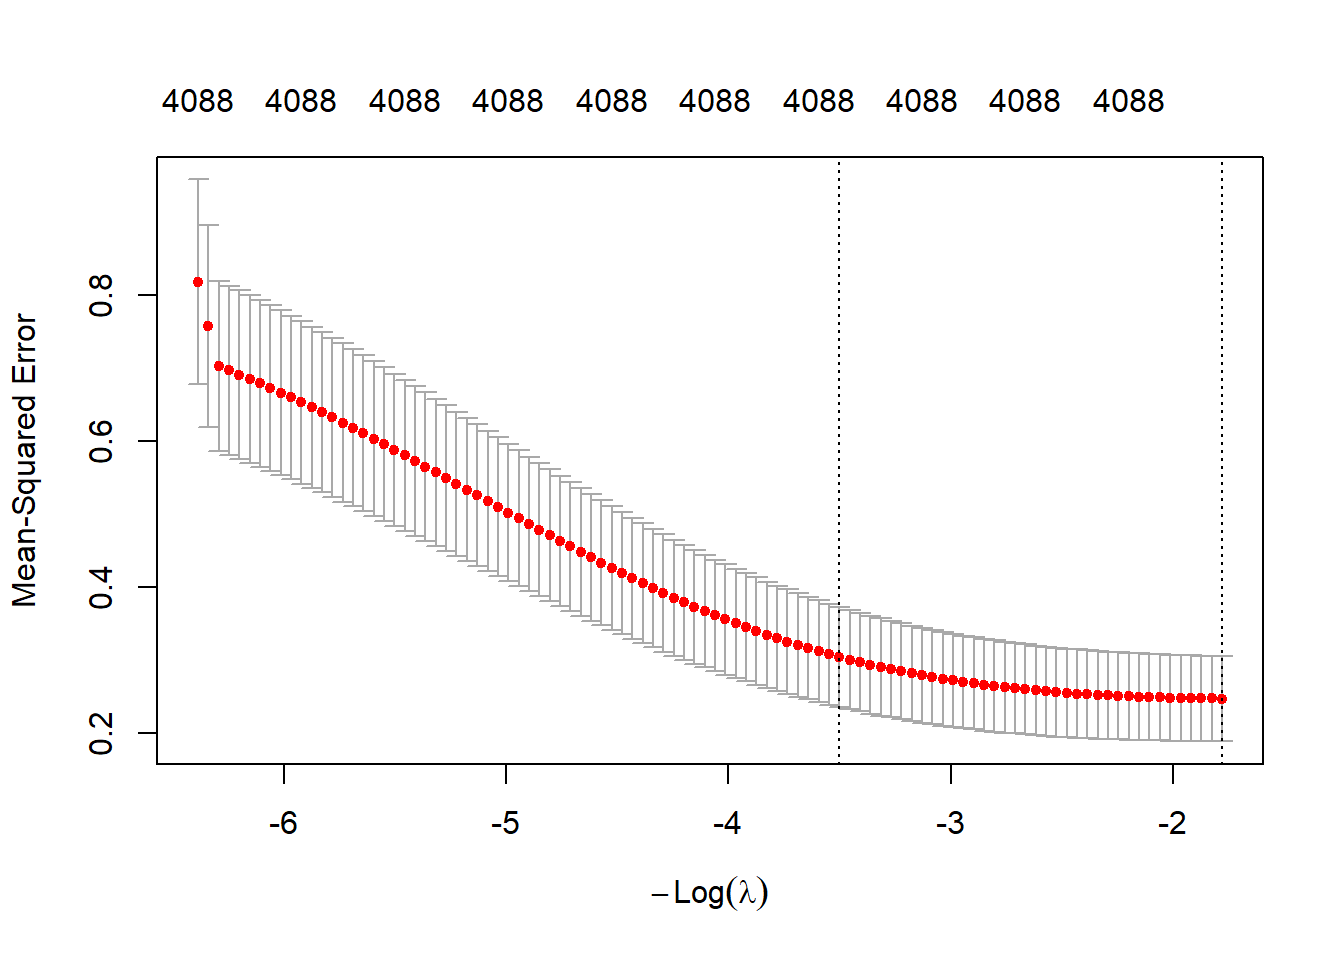
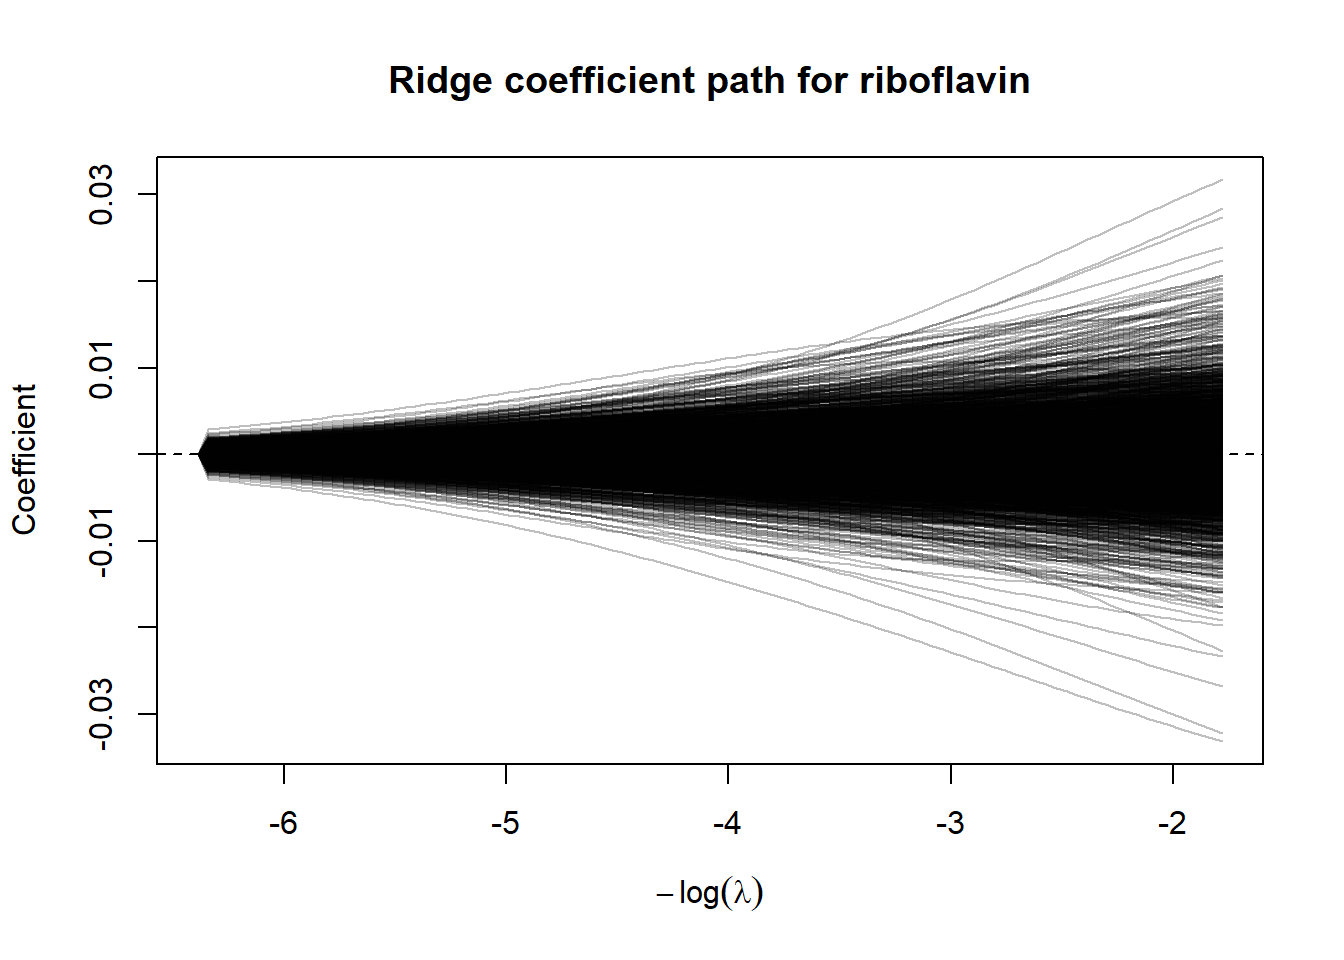
updated commit

diff --git a/_book/regularization.html b/_book/regularization.html
@@ -372,7 +372,7 @@ window.Quarto = {
 
 <section id="loading-the-data" class="level2" data-number="8.1">
 <h2 data-number="8.1" class="anchored" data-anchor-id="loading-the-data"><span class="header-section-number">8.1</span> Loading the Data:</h2>
-<p>Loading the riboflavin dataset with <span class="math inline">\(n=71\)</span> observations and <span class="math inline">\(p=4088\)</span> predictors. This is an example od a rank-deficient problem since <span class="math inline">\(p &gt; n\)</span>.</p>
+<p>Loading the riboflavin dataset with <span class="math inline">\(n=71\)</span> observations and <span class="math inline">\(p=4088\)</span> predictors. This is an example of a rank-deficient problem since <span class="math inline">\(p &gt; n\)</span>.</p>
 <p>71 samples of B. subtilis, each with 4,088 gene expression features. The outcome is riboflavin (vitamin B2) production rate. Because <span class="math inline">\(p &gt; n\)</span>, ordinary least squares fails — this is the setting where regularization is not optional.</p>
 <div class="cell">
 <div class="code-copy-outer-scaffold"><div class="sourceCode cell-code" id="cb1"><pre class="sourceCode r code-with-copy"><code class="sourceCode r"><span id="cb1-1"><a href="#cb1-1" aria-hidden="true" tabindex="-1"></a>riboflavin <span class="ot">&lt;-</span> <span class="fu">readRDS</span>(<span class="st">"riboflavin.rds"</span>)</span>
@@ -422,7 +422,7 @@ window.Quarto = {
 </div>
 </div>
 <div class="cell">
-<div class="code-copy-outer-scaffold"><div class="sourceCode cell-code" id="cb4"><pre class="sourceCode r code-with-copy"><code class="sourceCode r"><span id="cb4-1"><a href="#cb4-1" aria-hidden="true" tabindex="-1"></a><span class="fu">length</span>(<span class="fu">coef</span>(lm1)) <span class="co"># total coefficients R tried to estimate</span></span></code></pre></div><button title="Copy to Clipboard" class="code-copy-button"><i class="bi"></i></button></div>
+<div class="code-copy-outer-scaffold"><div class="sourceCode cell-code" id="cb4"><pre class="sourceCode r code-with-copy"><code class="sourceCode r"><span id="cb4-1"><a href="#cb4-1" aria-hidden="true" tabindex="-1"></a><span class="fu">length</span>(<span class="fu">coef</span>(lm1)) <span class="co"># total coefficients the model in R tried to estimate</span></span></code></pre></div><button title="Copy to Clipboard" class="code-copy-button"><i class="bi"></i></button></div>
 <div class="cell-output cell-output-stdout">
 <pre><code>[1] 4089</code></pre>
 </div>
@@ -434,7 +434,7 @@ window.Quarto = {
 <div class="cell-output cell-output-stdout">
 <pre><code>[1] 71</code></pre>
 </div>
-<div class="code-copy-outer-scaffold"><div class="sourceCode cell-code" id="cb10"><pre class="sourceCode r code-with-copy"><code class="sourceCode r"><span id="cb10-1"><a href="#cb10-1" aria-hidden="true" tabindex="-1"></a>lm1<span class="sc">$</span>rank <span class="co"># rank of the design matrix R used</span></span></code></pre></div><button title="Copy to Clipboard" class="code-copy-button"><i class="bi"></i></button></div>
+<div class="code-copy-outer-scaffold"><div class="sourceCode cell-code" id="cb10"><pre class="sourceCode r code-with-copy"><code class="sourceCode r"><span id="cb10-1"><a href="#cb10-1" aria-hidden="true" tabindex="-1"></a>lm1<span class="sc">$</span>rank <span class="co"># rank of the design matrix the model in R used</span></span></code></pre></div><button title="Copy to Clipboard" class="code-copy-button"><i class="bi"></i></button></div>
 <div class="cell-output cell-output-stdout">
 <pre><code>[1] 71</code></pre>
 </div>
@@ -455,7 +455,7 @@ window.Quarto = {
 <h2 data-number="8.3" class="anchored" data-anchor-id="problem-2"><span class="header-section-number">8.3</span> Problem 2:</h2>
 <p>Fit ridge regression using <code>glmnet</code> (<code>alpha = 0</code>). Select <span class="math inline">\(\lambda\)</span> via 10-fold cross-validation. Report <span class="math inline">\(\lambda_{\min}\)</span> and <span class="math inline">\(\lambda_{1se}\)</span>. Plot the CV error curve with the two vertical lines. How does CV-MSE change as <span class="math inline">\(\lambda\)</span> increases?</p>
 <div class="cell">
-<div class="code-copy-outer-scaffold"><div class="sourceCode cell-code" id="cb16"><pre class="sourceCode r code-with-copy"><code class="sourceCode r"><span id="cb16-1"><a href="#cb16-1" aria-hidden="true" tabindex="-1"></a><span class="fu">library</span>(glmnet)</span></code></pre></div><button title="Copy to Clipboard" class="code-copy-button"><i class="bi"></i></button></div>
+<div class="code-copy-outer-scaffold"><div class="sourceCode cell-code" id="cb16"><pre class="sourceCode r code-with-copy"><code class="sourceCode r"><span id="cb16-1"><a href="#cb16-1" aria-hidden="true" tabindex="-1"></a><span class="fu">library</span>(glmnet) <span class="co"># import rhe library for ridge and lasso regression</span></span></code></pre></div><button title="Copy to Clipboard" class="code-copy-button"><i class="bi"></i></button></div>
 <div class="cell-output cell-output-stderr">
 <pre><code>Warning: package 'glmnet' was built under R version 4.6.2</code></pre>
 </div>
@@ -465,22 +465,52 @@ window.Quarto = {
 <div class="cell-output cell-output-stderr">
 <pre><code>Loaded glmnet 5.2</code></pre>
 </div>
-<div class="code-copy-outer-scaffold"><div class="sourceCode cell-code" id="cb20"><pre class="sourceCode r code-with-copy"><code class="sourceCode r"><span id="cb20-1"><a href="#cb20-1" aria-hidden="true" tabindex="-1"></a><span class="fu">set.seed</span>(<span class="dv">42</span>)</span>
-<span id="cb20-2"><a href="#cb20-2" aria-hidden="true" tabindex="-1"></a>cv_ridge <span class="ot">&lt;-</span> <span class="fu">cv.glmnet</span>(X, y, <span class="at">alpha =</span> <span class="dv">0</span>, <span class="at">nfolds =</span> <span class="dv">10</span>)</span>
-<span id="cb20-3"><a href="#cb20-3" aria-hidden="true" tabindex="-1"></a></span>
-<span id="cb20-4"><a href="#cb20-4" aria-hidden="true" tabindex="-1"></a><span class="fu">c</span>(<span class="at">lambda.min =</span> <span class="fu">round</span>(cv_ridge<span class="sc">$</span>lambda.min, <span class="dv">4</span>),</span>
-<span id="cb20-5"><a href="#cb20-5" aria-hidden="true" tabindex="-1"></a>  <span class="at">lambda.1se =</span> <span class="fu">round</span>(cv_ridge<span class="sc">$</span>lambda<span class="fl">.1</span>se, <span class="dv">4</span>))</span></code></pre></div><button title="Copy to Clipboard" class="code-copy-button"><i class="bi"></i></button></div>
+<div class="code-copy-outer-scaffold"><div class="sourceCode cell-code" id="cb20"><pre class="sourceCode r code-with-copy"><code class="sourceCode r"><span id="cb20-1"><a href="#cb20-1" aria-hidden="true" tabindex="-1"></a><span class="co"># set a seed</span></span>
+<span id="cb20-2"><a href="#cb20-2" aria-hidden="true" tabindex="-1"></a><span class="fu">set.seed</span>(<span class="dv">42</span>) </span>
+<span id="cb20-3"><a href="#cb20-3" aria-hidden="true" tabindex="-1"></a><span class="co"># fit ridge regression using 10-fold cross validation implimentation</span></span>
+<span id="cb20-4"><a href="#cb20-4" aria-hidden="true" tabindex="-1"></a>cv_ridge <span class="ot">&lt;-</span> <span class="fu">cv.glmnet</span>(X, y, <span class="at">alpha =</span> <span class="dv">0</span>, <span class="at">nfolds =</span> <span class="dv">10</span>) </span>
+<span id="cb20-5"><a href="#cb20-5" aria-hidden="true" tabindex="-1"></a></span>
+<span id="cb20-6"><a href="#cb20-6" aria-hidden="true" tabindex="-1"></a><span class="co"># plot the CV error curve</span></span>
+<span id="cb20-7"><a href="#cb20-7" aria-hidden="true" tabindex="-1"></a><span class="fu">plot</span>(cv_ridge) </span>
+<span id="cb20-8"><a href="#cb20-8" aria-hidden="true" tabindex="-1"></a><span class="co"># title of plot</span></span>
+<span id="cb20-9"><a href="#cb20-9" aria-hidden="true" tabindex="-1"></a><span class="fu">title</span>(<span class="at">main =</span> <span class="fu">paste</span>(<span class="st">"CV error curve for Rudge Regression"</span>), <span class="at">font.main =</span> <span class="dv">1</span>) </span></code></pre></div><button title="Copy to Clipboard" class="code-copy-button"><i class="bi"></i></button></div>
+<div class="cell-output-display">
+<div>
+<figure class="figure">
+<p><img src="regularization_files/figure-html/unnamed-chunk-4-1.png" class="img-fluid figure-img" width="672"></p>
+</figure>
+</div>
+</div>
+<div class="code-copy-outer-scaffold"><div class="sourceCode cell-code" id="cb21"><pre class="sourceCode r code-with-copy"><code class="sourceCode r"><span id="cb21-1"><a href="#cb21-1" aria-hidden="true" tabindex="-1"></a><span class="fu">c</span>(<span class="at">lambda.min =</span> <span class="fu">round</span>(cv_ridge<span class="sc">$</span>lambda.min, <span class="dv">4</span>), <span class="co"># the penalty term λ with the lowest average CV error </span></span>
+<span id="cb21-2"><a href="#cb21-2" aria-hidden="true" tabindex="-1"></a>  <span class="at">lambda.1se =</span> <span class="fu">round</span>(cv_ridge<span class="sc">$</span>lambda<span class="fl">.1</span>se, <span class="dv">4</span>)) <span class="co"># the penalty term λ with the highest average CV error whose error is still within one standard error of that minimum</span></span></code></pre></div><button title="Copy to Clipboard" class="code-copy-button"><i class="bi"></i></button></div>
 <div class="cell-output cell-output-stdout">
 <pre><code>lambda.min lambda.1se 
     5.9342    33.1768 </code></pre>
 </div>
 </div>
+<p>Interpretation/Observation:</p>
+<p>As the penalty term λ increases, the CV-MSE change decreases as the curve begins to flatten out for larger λ. Using the 10-fold cross validation yieled a lowest average CV error penalty term λ.min of 5.9342 and a heighest average CV error penalty term λ.1se of 33.1768.</p>
 </section>
 <section id="problem-3" class="level2" data-number="8.4">
 <h2 data-number="8.4" class="anchored" data-anchor-id="problem-3"><span class="header-section-number">8.4</span> Problem 3:</h2>
 <p>Plot the ridge coefficient path <span class="math inline">\(-\log(\lambda)\)</span> (a previous version omitted the negative sign) on the x-axis, coefficient values on the y-axis. Describe qualitatively what happens to the coefficients as <span class="math inline">\(\lambda\)</span> increases. Does any coefficient reach exactly zero?</p>
+<p>Method #1:</p>
 <div class="cell">
-<div class="code-copy-outer-scaffold"><div class="sourceCode cell-code" id="cb22"><pre class="sourceCode r code-with-copy"><code class="sourceCode r"><span id="cb22-1"><a href="#cb22-1" aria-hidden="true" tabindex="-1"></a><span class="fu">plot</span>(cv_ridge)</span></code></pre></div><button title="Copy to Clipboard" class="code-copy-button"><i class="bi"></i></button></div>
+<div class="code-copy-outer-scaffold"><div class="sourceCode cell-code" id="cb23"><pre class="sourceCode r code-with-copy"><code class="sourceCode r"><span id="cb23-1"><a href="#cb23-1" aria-hidden="true" tabindex="-1"></a><span class="fu">library</span>(glmnet)</span>
+<span id="cb23-2"><a href="#cb23-2" aria-hidden="true" tabindex="-1"></a></span>
+<span id="cb23-3"><a href="#cb23-3" aria-hidden="true" tabindex="-1"></a>ridge_fit <span class="ot">&lt;-</span> <span class="fu">glmnet</span>(X, y, <span class="at">alpha =</span> <span class="dv">0</span>) <span class="co"># fit ridge regression</span></span>
+<span id="cb23-4"><a href="#cb23-4" aria-hidden="true" tabindex="-1"></a></span>
+<span id="cb23-5"><a href="#cb23-5" aria-hidden="true" tabindex="-1"></a><span class="co"># returns the coefficients for every λ. Converts it into matrix table. Drops inctercept roq, so jus tleft with coefficients/weigths. one row per gene, one column per λ</span></span>
+<span id="cb23-6"><a href="#cb23-6" aria-hidden="true" tabindex="-1"></a>beta_path <span class="ot">&lt;-</span> <span class="fu">as.matrix</span>(<span class="fu">coef</span>(ridge_fit))[<span class="sc">-</span><span class="dv">1</span>, ] </span>
+<span id="cb23-7"><a href="#cb23-7" aria-hidden="true" tabindex="-1"></a><span class="co"># puts λ values on a log scale, and the minus sign flips it to −log(λ)</span></span>
+<span id="cb23-8"><a href="#cb23-8" aria-hidden="true" tabindex="-1"></a>neg_log_lambda <span class="ot">&lt;-</span> <span class="sc">-</span><span class="fu">log</span>(ridge_fit<span class="sc">$</span>lambda)</span>
+<span id="cb23-9"><a href="#cb23-9" aria-hidden="true" tabindex="-1"></a></span>
+<span id="cb23-10"><a href="#cb23-10" aria-hidden="true" tabindex="-1"></a><span class="co"># plot the ridge coefficient path</span></span>
+<span id="cb23-11"><a href="#cb23-11" aria-hidden="true" tabindex="-1"></a><span class="fu">matplot</span>(neg_log_lambda, <span class="fu">t</span>(beta_path), <span class="at">type =</span> <span class="st">"l"</span>, <span class="at">lty =</span> <span class="dv">1</span>,</span>
+<span id="cb23-12"><a href="#cb23-12" aria-hidden="true" tabindex="-1"></a>        <span class="at">col =</span> <span class="st">"#00000040"</span>,</span>
+<span id="cb23-13"><a href="#cb23-13" aria-hidden="true" tabindex="-1"></a>        <span class="at">xlab =</span> <span class="fu">expression</span>(<span class="sc">-</span><span class="fu">log</span>(lambda)), <span class="at">ylab =</span> <span class="st">"Coefficient"</span>,</span>
+<span id="cb23-14"><a href="#cb23-14" aria-hidden="true" tabindex="-1"></a>        <span class="at">main =</span> <span class="st">"Ridge coefficient path for riboflavin"</span>)</span>
+<span id="cb23-15"><a href="#cb23-15" aria-hidden="true" tabindex="-1"></a><span class="fu">abline</span>(<span class="at">h =</span> <span class="dv">0</span>, <span class="at">lty =</span> <span class="dv">2</span>)</span></code></pre></div><button title="Copy to Clipboard" class="code-copy-button"><i class="bi"></i></button></div>
 <div class="cell-output-display">
 <div>
 <figure class="figure">
@@ -489,10 +519,89 @@ window.Quarto = {
 </div>
 </div>
 </div>
+<p>Method #2:</p>
+<div class="cell">
+<div class="code-copy-outer-scaffold"><div class="sourceCode cell-code" id="cb24"><pre class="sourceCode r code-with-copy"><code class="sourceCode r"><span id="cb24-1"><a href="#cb24-1" aria-hidden="true" tabindex="-1"></a><span class="fu">library</span>(glmnet)</span>
+<span id="cb24-2"><a href="#cb24-2" aria-hidden="true" tabindex="-1"></a></span>
+<span id="cb24-3"><a href="#cb24-3" aria-hidden="true" tabindex="-1"></a><span class="co"># fit the ridge regression model</span></span>
+<span id="cb24-4"><a href="#cb24-4" aria-hidden="true" tabindex="-1"></a>ridge_fit <span class="ot">&lt;-</span> <span class="fu">glmnet</span>(X, y, <span class="at">alpha =</span> <span class="dv">0</span>)</span>
+<span id="cb24-5"><a href="#cb24-5" aria-hidden="true" tabindex="-1"></a></span>
+<span id="cb24-6"><a href="#cb24-6" aria-hidden="true" tabindex="-1"></a><span class="co"># plot the ridge coefficient path</span></span>
+<span id="cb24-7"><a href="#cb24-7" aria-hidden="true" tabindex="-1"></a><span class="fu">plot</span>(ridge_fit, <span class="at">xvar =</span> <span class="st">"lambda"</span>, <span class="at">label =</span> <span class="cn">FALSE</span>,</span>
+<span id="cb24-8"><a href="#cb24-8" aria-hidden="true" tabindex="-1"></a>     <span class="at">main =</span> <span class="st">"Ridge coefficient path for riboflavin"</span>, <span class="at">col =</span> <span class="st">"#00000030"</span>, <span class="at">font.main =</span> <span class="dv">1</span>)</span></code></pre></div><button title="Copy to Clipboard" class="code-copy-button"><i class="bi"></i></button></div>
+<div class="cell-output-display">
+<div>
+<figure class="figure">
+<p><img src="regularization_files/figure-html/unnamed-chunk-6-1.png" class="img-fluid figure-img" width="672"></p>
+</figure>
+</div>
+</div>
+</div>
+<div class="cell">
+<div class="code-copy-outer-scaffold"><div class="sourceCode cell-code" id="cb25"><pre class="sourceCode r code-with-copy"><code class="sourceCode r"><span id="cb25-1"><a href="#cb25-1" aria-hidden="true" tabindex="-1"></a><span class="co"># sum of any coefficient which exactly equals 0 (we except none of them to equal 0)</span></span>
+<span id="cb25-2"><a href="#cb25-2" aria-hidden="true" tabindex="-1"></a><span class="fu">sum</span>(beta_path <span class="sc">==</span> <span class="dv">0</span>)</span></code></pre></div><button title="Copy to Clipboard" class="code-copy-button"><i class="bi"></i></button></div>
+<div class="cell-output cell-output-stdout">
+<pre><code>[1] 0</code></pre>
+</div>
+</div>
+<p>Interpretation:</p>
+<p>The plot shows that as the penatly term λ increases, the coefficients are shrunken and pulled towards zero. However, none of them ever actually reach zero. This can be verified by the result from the <code>sum(beta_path == 0)</code> where no coefficients actually reached zero. Therefore, there are 4,088 coefficietns which are non-zero but most will be near zero.</p>
 </section>
 <section id="problem-4" class="level2" data-number="8.5">
 <h2 data-number="8.5" class="anchored" data-anchor-id="problem-4"><span class="header-section-number">8.5</span> Problem 4:</h2>
 <p>Fit lasso regression (<code>alpha = 1</code>) and select <span class="math inline">\(\lambda\)</span> via 10-fold CV. At <span class="math inline">\(\lambda_{1se}\)</span>, how many gene expression features are retained (non-zero coefficients)? Plot the coefficient path and the CV error curve.</p>
+<div class="cell">
+<div class="code-copy-outer-scaffold"><div class="sourceCode cell-code" id="cb27"><pre class="sourceCode r code-with-copy"><code class="sourceCode r"><span id="cb27-1"><a href="#cb27-1" aria-hidden="true" tabindex="-1"></a><span class="fu">library</span>(glmnet)</span>
+<span id="cb27-2"><a href="#cb27-2" aria-hidden="true" tabindex="-1"></a></span>
+<span id="cb27-3"><a href="#cb27-3" aria-hidden="true" tabindex="-1"></a><span class="co"># set a seed</span></span>
+<span id="cb27-4"><a href="#cb27-4" aria-hidden="true" tabindex="-1"></a><span class="fu">set.seed</span>(<span class="dv">42</span>) </span>
+<span id="cb27-5"><a href="#cb27-5" aria-hidden="true" tabindex="-1"></a><span class="co"># fit lasso regression using 10-fold cross validation implimentation</span></span>
+<span id="cb27-6"><a href="#cb27-6" aria-hidden="true" tabindex="-1"></a>cv_lasso <span class="ot">&lt;-</span> <span class="fu">cv.glmnet</span>(X, y, <span class="at">alpha =</span> <span class="dv">1</span>, <span class="at">nfolds =</span> <span class="dv">10</span>) </span>
+<span id="cb27-7"><a href="#cb27-7" aria-hidden="true" tabindex="-1"></a></span>
+<span id="cb27-8"><a href="#cb27-8" aria-hidden="true" tabindex="-1"></a><span class="co"># plot the CV error curve</span></span>
+<span id="cb27-9"><a href="#cb27-9" aria-hidden="true" tabindex="-1"></a><span class="fu">plot</span>(cv_lasso) </span>
+<span id="cb27-10"><a href="#cb27-10" aria-hidden="true" tabindex="-1"></a><span class="co"># title of plot</span></span>
+<span id="cb27-11"><a href="#cb27-11" aria-hidden="true" tabindex="-1"></a><span class="fu">title</span>(<span class="at">main =</span> <span class="fu">paste</span>(<span class="st">"CV error curve for Lasso Regression"</span>), <span class="at">font.main =</span> <span class="dv">1</span>) </span></code></pre></div><button title="Copy to Clipboard" class="code-copy-button"><i class="bi"></i></button></div>
+<div class="cell-output-display">
+<div>
+<figure class="figure">
+<p><img src="regularization_files/figure-html/unnamed-chunk-8-1.png" class="img-fluid figure-img" width="672"></p>
+</figure>
+</div>
+</div>
+<div class="code-copy-outer-scaffold"><div class="sourceCode cell-code" id="cb28"><pre class="sourceCode r code-with-copy"><code class="sourceCode r"><span id="cb28-1"><a href="#cb28-1" aria-hidden="true" tabindex="-1"></a><span class="fu">c</span>(<span class="st">`</span><span class="at">lambda.min</span><span class="st">`</span> <span class="ot">=</span> <span class="fu">round</span>(cv_lasso<span class="sc">$</span>lambda.min, <span class="dv">4</span>), <span class="co"># the penalty term λ with the lowest average CV error </span></span>
+<span id="cb28-2"><a href="#cb28-2" aria-hidden="true" tabindex="-1"></a>  <span class="st">`</span><span class="at">lambda.1se</span><span class="st">`</span> <span class="ot">=</span> <span class="fu">round</span>(cv_lasso<span class="sc">$</span>lambda<span class="fl">.1</span>se, <span class="dv">4</span>)) <span class="co"># the penalty term λ with the highest average CV error whose error is still within one standard error of that minimum</span></span></code></pre></div><button title="Copy to Clipboard" class="code-copy-button"><i class="bi"></i></button></div>
+<div class="cell-output cell-output-stdout">
+<pre><code>lambda.min lambda.1se 
+    0.0289     0.0881 </code></pre>
+</div>
+<div class="code-copy-outer-scaffold"><div class="sourceCode cell-code" id="cb30"><pre class="sourceCode r code-with-copy"><code class="sourceCode r"><span id="cb30-1"><a href="#cb30-1" aria-hidden="true" tabindex="-1"></a><span class="co"># sum of the non-zero coefficients remain at penalty term with the highest average CV error</span></span>
+<span id="cb30-2"><a href="#cb30-2" aria-hidden="true" tabindex="-1"></a>n_selected <span class="ot">&lt;-</span> <span class="fu">sum</span>(<span class="fu">coef</span>(cv_lasso, <span class="at">s =</span> <span class="st">"lambda.1se"</span>) <span class="sc">!=</span> <span class="dv">0</span>) <span class="sc">-</span> <span class="dv">1</span>  <span class="co"># subtract intercept</span></span>
+<span id="cb30-3"><a href="#cb30-3" aria-hidden="true" tabindex="-1"></a><span class="fu">c</span>(<span class="st">`</span><span class="at">Non-zero gene expression features of 4,088 at lambda.1se</span><span class="st">`</span> <span class="ot">=</span> n_selected)</span></code></pre></div><button title="Copy to Clipboard" class="code-copy-button"><i class="bi"></i></button></div>
+<div class="cell-output cell-output-stdout">
+<pre><code>Non-zero gene expression features of 4,088 at lambda.1se 
+                                                      27 </code></pre>
+</div>
+</div>
+<div class="cell">
+<div class="code-copy-outer-scaffold"><div class="sourceCode cell-code" id="cb32"><pre class="sourceCode r code-with-copy"><code class="sourceCode r"><span id="cb32-1"><a href="#cb32-1" aria-hidden="true" tabindex="-1"></a><span class="fu">library</span>(glmnet)</span>
+<span id="cb32-2"><a href="#cb32-2" aria-hidden="true" tabindex="-1"></a></span>
+<span id="cb32-3"><a href="#cb32-3" aria-hidden="true" tabindex="-1"></a><span class="co"># fit the lasso regression model</span></span>
+<span id="cb32-4"><a href="#cb32-4" aria-hidden="true" tabindex="-1"></a>lasso_fit <span class="ot">&lt;-</span> <span class="fu">glmnet</span>(X, y, <span class="at">alpha =</span> <span class="dv">1</span>) </span>
+<span id="cb32-5"><a href="#cb32-5" aria-hidden="true" tabindex="-1"></a></span>
+<span id="cb32-6"><a href="#cb32-6" aria-hidden="true" tabindex="-1"></a><span class="co"># plot the lasso coefficient path</span></span>
+<span id="cb32-7"><a href="#cb32-7" aria-hidden="true" tabindex="-1"></a><span class="fu">plot</span>(lasso_fit, <span class="at">xvar =</span> <span class="st">"lambda"</span>, <span class="at">label =</span> <span class="cn">FALSE</span>,</span>
+<span id="cb32-8"><a href="#cb32-8" aria-hidden="true" tabindex="-1"></a>     <span class="at">main =</span> <span class="st">"Lasso coefficient path for riboflavin"</span>)</span></code></pre></div><button title="Copy to Clipboard" class="code-copy-button"><i class="bi"></i></button></div>
+<div class="cell-output-display">
+<div>
+<figure class="figure">
+<p><img src="regularization_files/figure-html/unnamed-chunk-9-1.png" class="img-fluid figure-img" width="672"></p>
+</figure>
+</div>
+</div>
+</div>
+<p>Interpretation:</p>
+<p>Using the 10-fold cross validation yieled a lowest average CV error penalty term λ.min of 0.0289 and a heighest average CV error penalty term λ.1se of 0.0881. The CV error curve shows the CV-MSE change decreases near the lowest average CV error penalty term λ.min then begins to flatten up until the heighest average CV error penalty term λ.1se where the CV-MSE change begins to increase. At the heighest average CV error penalty term λ.1se, of the 4,088 gene expression features, 27 were non-zero coefficients reaminging while all other coefficients were set equal to zero. The lasso coefficient path shows coefficients of the genes entering the model one at a time as λ decreases. Thus, as λ decreases, coefficients of the genes switch on one at a time and their coefficients leave the zero line. Inversely, as λ increases, coefficients of the genes move towards where the weak/redundant coefficients equal exactly zero and important coefficients are near zero.</p>
 </section>
 <section id="problem-5" class="level2" data-number="8.6">
 <h2 data-number="8.6" class="anchored" data-anchor-id="problem-5"><span class="header-section-number">8.6</span> Problem 5:</h2>
